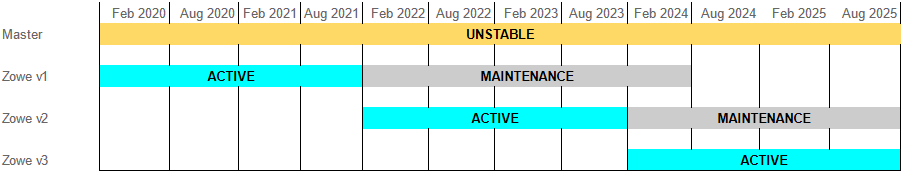
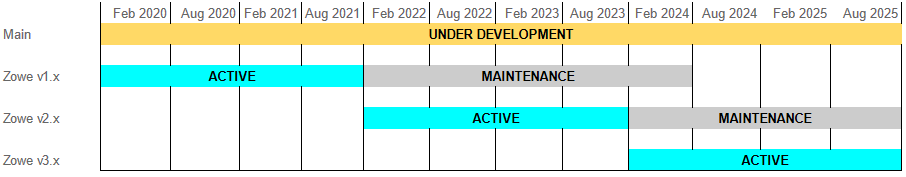
Non-material updates to the Release

diff --git a/Technical-Steering-Committee/release.md b/Technical-Steering-Committee/release.md
@@ -1,4 +1,4 @@
-# Zowe Release Schedule
+# Zowe Version Release Schedule
 
 We release Zowe on a regular schedule. Major versions every two years. Minor versions on a schedule published in [Community repository](https://github.com/zowe/community/blob/master/Project%20Management/Schedule/Zowe%20PI%20%26%20Sprint%20Cadence.md). The minor changes shouldn't introduce breaking changes. We introduce the breaking changes only on the border of the major releases. 
 
@@ -31,9 +31,9 @@ This release gets updates every 6 weeks according to the published schedule. The
 - A fix can be made available without incurring a greater risk of introducing additional defects
 - Critical business function is affected
 
-## Unstable
+## Under development
 
-Development branch of the Zowe, which contains the code currently being worked on. We prepare the release every night and publish it. THe main reason is to run the full CICD pipeline and give feedback to the squads around the integration of the Zowe components. 
+Development branch of the Zowe, which contains the code currently being worked on. We prepare the release every night and publish it. The main reason is to run the full CICD pipeline and give feedback to the squads around the integration of the Zowe components. 
 
 # Zowe Release Process
 
